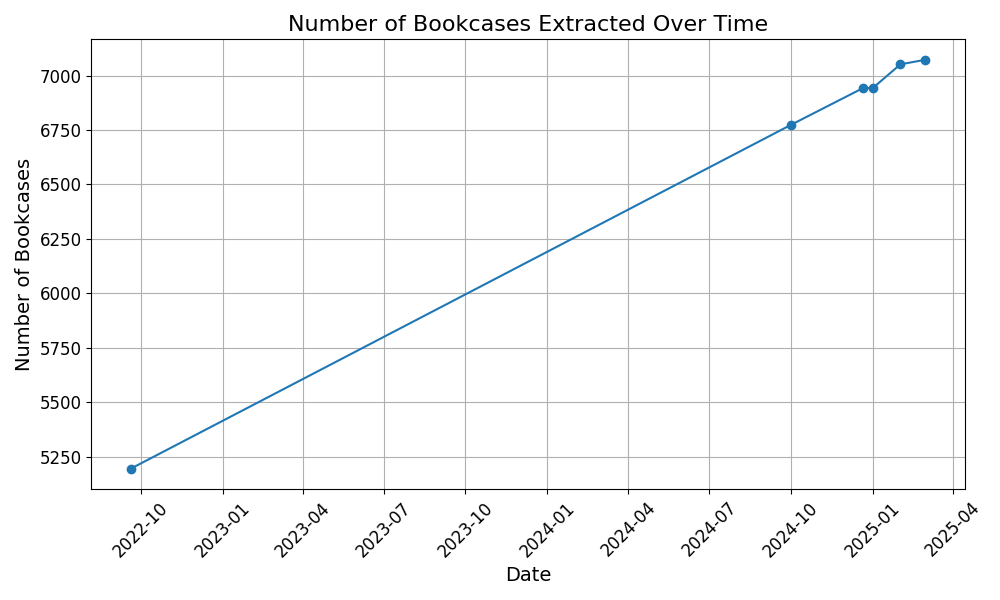
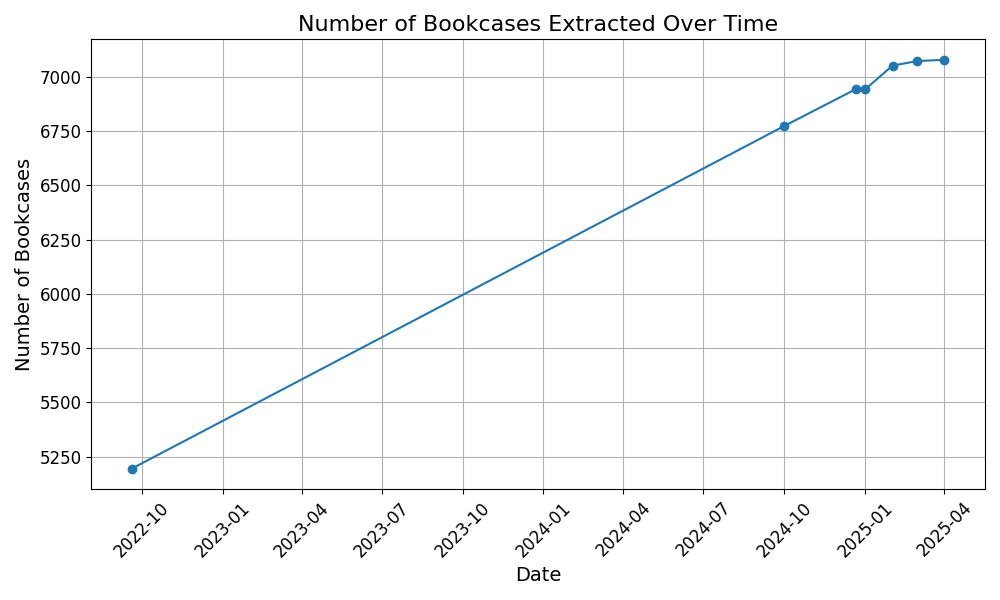
Boite-a-lire 2025-04-01

diff --git a/README.md b/README.md
@@ -1,6 +1,6 @@
 # bookcases-zonelivre
 
-**Data last updated on: 2025-03-01**
+**Data last updated on: 2025-04-01**
 
 Bookcases from zonelivre: https://boite.a.livres.zonelivre.fr/
 
